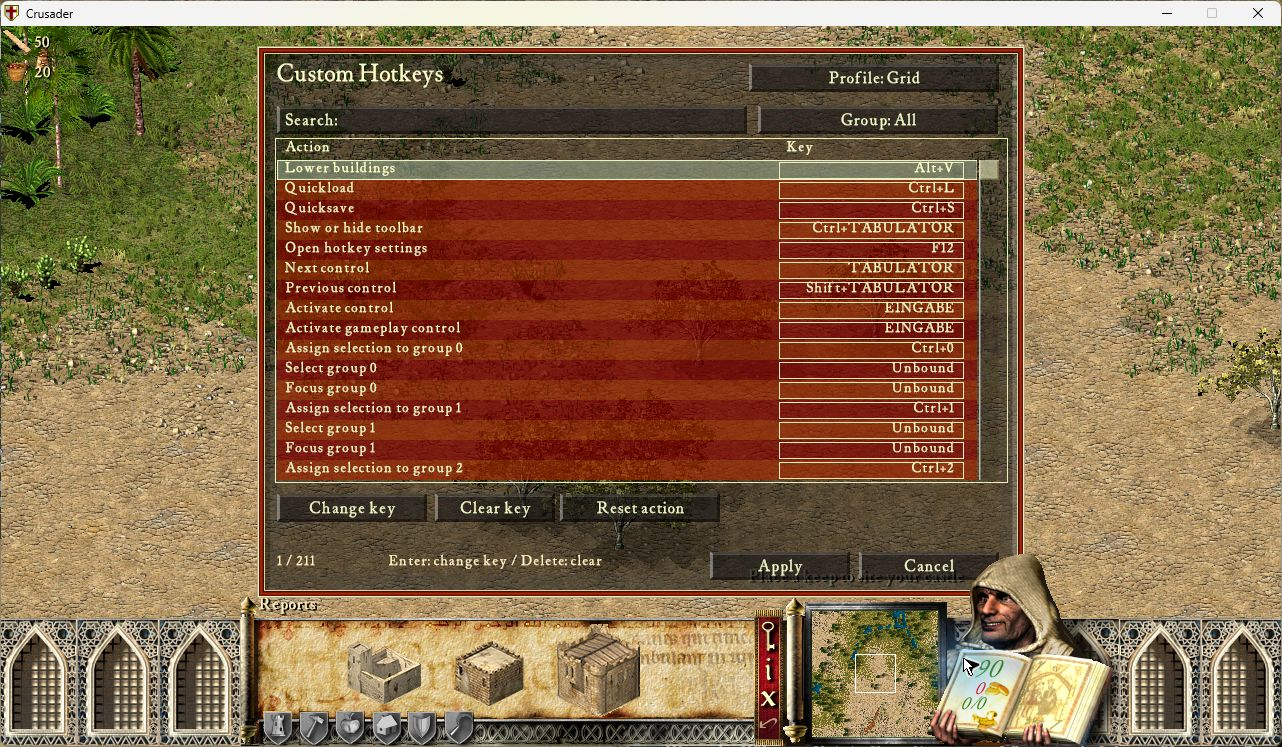
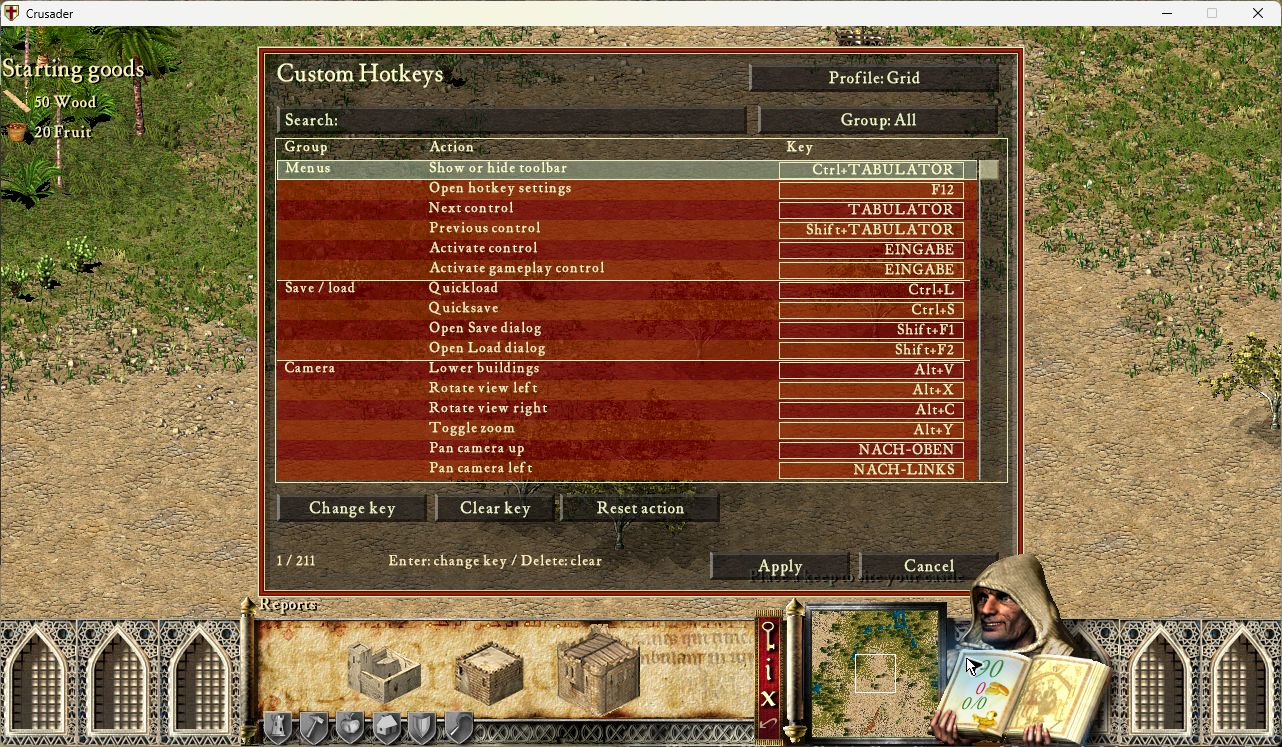
Record native 0.1.1 key capture and grouped editor evidence

diff --git a/docs/editor-0.1.1-evidence.md b/docs/editor-0.1.1-evidence.md
@@ -1,0 +1,49 @@
+# Native editor check for 0.1.1
+
+Frozen source `21dab2a79b84e0aaffb2c770681281675969f1d4`, ZIP88,172bytes,
[1 lines of base64/hex data omitted]
+PID13032 on12 September2026, SHC1.41 executable SHA256
[1 lines of base64/hex data omitted]
+UCP3.0.7-77c6a/UI1.0.1/LuaJIT1.0.0/cffi1.0.0/winProcHandler1.0.0/graphics1.3.0.
+English game, German Windows keyboard names,1280x720. Only the packaged product
+and its dependencies were active; no input diagnostic, Legacy or Recorder.
+Configuration SHA256:
[1 lines of base64/hex data omitted]
+
+- F12 opened the editor with the persisted Grid profile and211 actions.
+- Clicking Change key for Show or hide toolbar entered capture. Ctrl+F11
+  appeared correctly; Apply saved generation3 with scan87,extended=false,mods1.
+  Reopening showed that saved binding. No other key was captured by release.
+- Capturing F12 for that action reported the existing settings-action conflict
+  and retained Ctrl+F11. Reset action restored Ctrl+Tab; Apply saved generation4.
+- Castle Builder / A Mighty Oasis was started using mouse setup. F12 opened the
+  gameplay editor. Native row/button rendering remained intact. Key glyphs now
+  clear the top border; all sixteen action rows remain visible.
+- Two PageDown presses kept keyboard focus visible across section boundaries.
+  The control-group section showed assignment, select and focus together,
+  with `0 (game)` / `0 again (game)` through the visible group3 and explanatory
+  help. This is a display check, not a new native group-command-count test.
+- The Group button filtered to the six menu actions. Home and Return entered
+  capture without binding the triggering Return. Ctrl+Up displayed the extended
+  arrow name correctly. Cancel discarded this edit; F12 reopened with Ctrl+Tab.
+- Normal Alt+F4 closed the game; process absence verified. Desktop released
+ 04:44:13 CEST, approximately four minutes after acquisition. Baseline UCP config
+  restored. Saved Grid bindings are back to their defaults; task evidence retains
+  both persistence generations. No world save or other worker's process changed.
+
+Input used the user-requested physical-scan SendInput harness, not physical
+hardware. The error log is header-only. Task evidence: `editor-011-build.json`,
+`editor-13032{,-error}.log`, `editor-13032-profiles-{a,b}.json`, and capture/conflict/
+extended-key JPGs under Roadmap/Investigations/Custom-Hotkeys/native-evidence.
+The screenshots below are original, unedited game-window captures.
+
+![Grouped editor](images/hotkeys-ingame.jpg)
+
+![Native group defaults](images/hotkeys-groups-ingame.jpg)
+
+472 component cases passed on Lua5.4/LuaJIT in19.94s before this run. New checks
+cover group completeness/order/filtering/scrolling, all three presets' retained
+number paths without custom dispatch, modifier/physical-position/E0 capture,
+release/repeat/character suppression, draft isolation and localized font bytes.
+This bounded check does not replace full keyboard-only, multiplayer, replay,
+state-restore, language/layout or performance acceptance.
